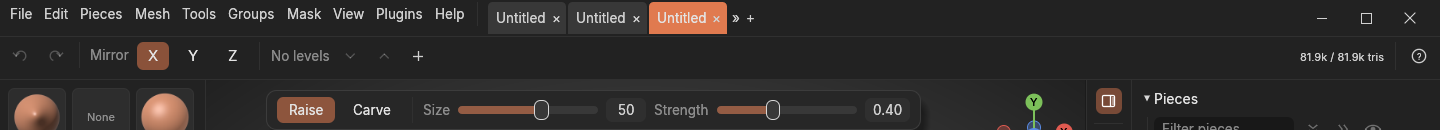
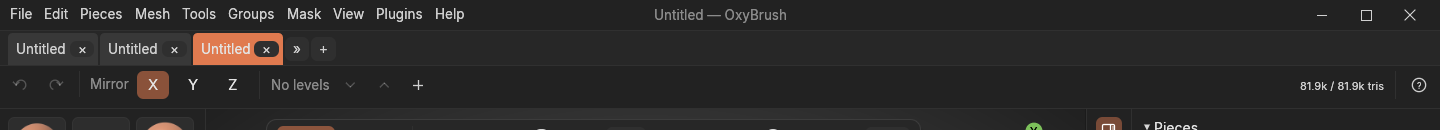
Keep the tabs in their own row under the title bar
The maintainer tried the tabs in the Windows and Linux bar and preferred
them in their own row. The bar goes back to the menus, the project name
(painted in the middle, so the bar under it still moves the window) and
the window buttons, with the tab row under it on every platform.

The RFC, changelog, roadmap and screenshot follow.

Claude-Session: https://claude.ai/code/session_01GEttLK8THCkZ7KHELbSp7g

diff --git a/crates/oxy-app/src/title_bar.rs b/crates/oxy-app/src/title_bar.rs
@@ -1,8 +1,8 @@
 //! OxyBrush's own title bar (RFC 0028): on Windows and Linux the window is
 //! made without the system's title bar, and the menu bar takes its place.
-//! It holds the menus, the tabs and the minimize, maximize and close
-//! buttons, moves the window when its empty part is dragged, and thin edges
-//! around the window resize it.
+//! It holds the menus, the project name and the minimize, maximize and
+//! close buttons, moves the window when its empty part is dragged, and thin
+//! edges around the window resize it. The tabs stay in their row under it.
 //!
 //! The UI only asks ([`WindowRequest`] in `Editor::window_request`); the
 //! app carries the request out on the window, because egui has no window
@@ -101,7 +101,7 @@ pub fn edge_at(screen: Rect, pos: Pos2) -> Option<Edge> {
     })
 }
 
-/// Empty bar kept free to move the window by, at the least (points).
+/// Empty bar kept free beside the title to move the window by (points).
 pub const MIN_DRAG: f32 = 48.0;
 
 /// Size of one window button for the layout.
@@ -109,15 +109,10 @@ fn button_size(ed: &Editor) -> egui::Vec2 {
     if ed.layout == crate::settings::UiLayout::Touch { vec2(52.0, 34.0) } else { vec2(44.0, 26.0) }
 }
 
-/// Width the three window buttons take (points).
-pub fn buttons_width(ed: &Editor) -> f32 {
-    3.0 * button_size(ed).x
-}
-
-/// The minimize, maximize and close buttons at the right end of the menu
-/// bar. Call last inside the menu bar; the space before them stays empty,
-/// so it moves the window.
-pub fn window_buttons(ui: &mut Ui, ed: &mut Editor) {
+/// The right side of the menu bar: the project title, centred on the
+/// window when there's room, over empty bar that moves the window, and the
+/// window buttons. Call last inside the menu bar.
+pub fn title_and_buttons(ui: &mut Ui, ed: &mut Editor, title: &str) {
     ui.with_layout(egui::Layout::right_to_left(egui::Align::Center), |ui| {
         ui.spacing_mut().item_spacing.x = 0.0;
         let size = button_size(ed);
@@ -129,6 +124,18 @@ pub fn window_buttons(ui: &mut Ui, ed: &mut Editor) {
                     Button::Minimize => WindowRequest::Minimize,
                 });
             }
+        }
+        // Painted, not a label, so the bar under it stays a drag area. Left
+        // out when it doesn't fit.
+        let space = ui.available_rect_before_wrap();
+        let font = egui::TextStyle::Body.resolve(ui.style());
+        let color = ui.visuals().weak_text_color();
+        let galley = ui.painter().layout_no_wrap(title.to_owned(), font, color);
+        let width = galley.size().x;
+        if width + MIN_DRAG < space.width() {
+            let centre = ui.ctx().content_rect().center().x;
+            let x = (centre - width / 2.0).clamp(space.left() + 12.0, space.right() - 12.0 - width);
+            ui.painter().galley(Pos2::new(x, space.center().y - galley.size().y / 2.0), galley, color);
         }
     });
 }

diff --git a/crates/oxy-app/src/ui.rs b/crates/oxy-app/src/ui.rs
@@ -870,13 +870,10 @@ pub fn draw(ui: &mut Ui, ed: &mut Editor) -> (Option<UiAction>, egui::Rect) {
             tips::menu(ui, "Plugins", plain::PLUGINS_MENU, |ui| crate::wasm_plugins::plugins_menu(ui, ed));
             tips::menu(ui, "Help", plain::HELP, |ui| help_menu(ui, ed));
             if own_bar {
-                // The tabs, then empty space that moves the window, then
-                // the window buttons (RFC 0028).
-                ui.separator();
-                let reserved = crate::title_bar::buttons_width(ed) + crate::title_bar::MIN_DRAG + 64.0;
-                let width = (ui.available_width() - reserved).max(80.0);
-                tab_strip(ui, ed, width);
-                crate::title_bar::window_buttons(ui, ed);
+                // The project name over empty bar that moves the window,
+                // then the window buttons (RFC 0028).
+                let title = ed.title();
+                crate::title_bar::title_and_buttons(ui, ed, &title);
             }
         });
         })
@@ -2415,10 +2412,6 @@ fn edit_linear_color(ui: &mut Ui, color: &mut [f64; 3]) -> egui::Response {
 
 /// Tab bar showing open project documents across the top of the viewport.
 fn tab_bar(ui: &mut Ui, ed: &mut Editor, _action: &mut Option<UiAction>) {
-    // With OxyBrush's own title bar the tabs are in it (RFC 0028).
-    if ed.own_title_bar {
-        return;
-    }
     let frame = egui::Frame::new().fill(ui.visuals().window_fill).inner_margin(egui::Margin {
         left: 8,
         right: 8,
@@ -8257,18 +8250,12 @@ mod tests {
         let file = widgets_labelled(&mut ed, &ctx, "File");
         assert_eq!(file.len(), 1, "{file:?}");
         let empty = egui::pos2(1000.0, file[0].center().y);
-        // The tabs are in the same bar, after the menus, and work there.
+        // The tabs stay in their own row under the bar.
         let plus = widgets_labelled(&mut ed, &ctx, "+");
         assert!(
-            plus.iter().any(|r| (r.center().y - file[0].center().y).abs() < 6.0 && r.left() > file[0].right()),
-            "the new-tab button is in the menu bar: {plus:?} vs {file:?}"
+            plus.iter().any(|r| r.top() >= file[0].bottom() && r.top() < file[0].bottom() + 40.0),
+            "the tab row is right under the bar: {plus:?} vs {file:?}"
         );
-        let plus = *plus.iter().find(|r| (r.center().y - file[0].center().y).abs() < 6.0).unwrap();
-        assert!(plus.right() < empty.x, "room to drag after the tabs");
-        let tabs = ed.documents.len();
-        click_with(&mut ed, &ctx, plus.center(), egui::Modifiers::NONE, 1);
-        assert_eq!(ed.documents.len(), tabs + 1, "+ in the bar opens a tab");
-        assert_eq!(ed.window_request.take(), None, "and doesn't move the window");
 
         // Dragging the empty bar moves the window; a menu takes its own click.
         frames_with(

diff --git a/docs/ROADMAP.md b/docs/ROADMAP.md
@@ -8,7 +8,7 @@
 >
 > 4.0.0-beta.21.4 adds editing and repositioning for placed recipes, linked mirror pairs, a new-tab material preference, and a Blender bridge extension ZIP. It also fixes rounded Grab-family pulls near the mirror plane and left-click controls in the Pieces list.
 >
-> **Last updated:** 2026-11-21 (unreleased: one bar for the menus, tabs and window buttons on Windows and Linux, with Use system title bar to switch back (RFC 0028 phase 1; macOS menu bar next); Blender bridge axis conversion and running-window handoff; Recipe Box library housekeeping and masked/even-scatter instances; quads and n-gons in OBJ and FBX files kept as polygons whatever their shape, so quad subdivision matches the file (`POLY` section); UVs survive subdivision, save/reopen and export; Blender bridge offsets shape keys with the mesh and updates previously returned pieces. v4.0.0-beta.21.4: Blender bridge extension ZIP (#396); grab-family brushes pull round shapes with symmetry on (no flat top on the mirror plane); new tabs start with the current tab's material, or one chosen in Preferences > General; Recipe Box phase 3: Move on surface, linked mirrored pairs, Unlink, Save back to Recipe Box / Save as new recipe (RFC 0026, `PART` version 2); the Parts Bin is renamed the Recipe Box, and its saved strokes recipes; Pieces list left clicks fixed (#391). v4.0.0-beta.21.2: fixed tab close button hit-testing, `+`/`Ctrl+T` new tab creation from untouched tabs, non-prompting File > New, pinned overflow/new-tab buttons, and pull-out Parts Bin drawer anchored to the brush shelf edge (#388). v4.0.0-beta.21: Tabbed Projects completed — RFC 0027 Phases 1–5 (#381–#383, #385): multi-document tab bar, shortcuts (`Ctrl+T`, `Ctrl+W`, `Ctrl+Tab`/`Ctrl+Shift+Tab`, `Ctrl+1..9`, `Ctrl+Shift+T`), drag reorder, overflow menu, multi-tab quit with Save all, per-tab Revert, multi-file CLI/drop, startup session restore preference, source-tracked multi-tab crash recovery UI, tab-aware recent files and agent `open`, cross-tab piece copy/paste (`Ctrl+C`/`Ctrl+V`) with living strokes, tab-latched WASM & Python plugins, bridge link tabs, and shared 4 GiB LRU undo cap; grab-family symmetry blending fix (#384) so overlapping mirror copies sum and softly cap at one drag without valleys or ridges near the plane; Parts Bin library, placement and `.oxydetail` details with `.oxb` `PART` section (RFC 0026 & RFC 0025 phases 4–5, #379); Living Strokes Edit path as a curve (RFC 0025 phase 3, #377); Pieces outliner Shift-range selection and batch parenting (#380); consolidated Theme controls into Preferences > Appearance (#376). v4.0.0-beta.20.2: inspector panel width bounding to 45% screen width (#374); Pieces outliner drag-and-drop reparenting and unparenting relative to siblings and roots; outliner vector icons for expand/collapse and fold chevrons; piece row right-click context menu and Parent to… submenu. v4.0.0-beta.20: Autodesk FBX import for modern 7.x, ASCII, and legacy 5.8/6.x (#367); Sculptor dark slate theme with concentric clay sliders and sculpted silver-clay icons (#368); Pieces outliner upgrade with folders, interactive parenting, search filter, and batch actions (#369); UI tint color hue, intensity, and brightness sliders with swatches (#371). v4.0.0-beta.19.2: 4K alpha import resolution and native 16-bit PNG depth preservation (#359); resizable narrow inspector panel with wrapping controls (#360); voxel remesh volume preservation (#354); Deform window title bar flick fix (#351). v4.0.0-beta.19: tree view outliner for pieces with hierarchy folding, drag-and-drop parenting, and transform propagation (#332); voxel remesh volume preservation (#354); partitioned GPU rendering with bounded draw batches for 200M–600M+ triangles; LZ4-compressed inactive undo history; multires zero-displacement detail compaction; VRAM culling for hidden pieces; GPU buffer clamping and wireframe safety limit; reorder pieces by drag-and-drop (#297); join picked pieces with Cmd+click (#297, #284); Alt-click eye icon isolates a piece (#297); Poly Edit gizmo axes alignment and custom pivot (#324); Invert alpha toggle for brush alphas (#339); Stamp stroke smoothed to 1 redraw per frame (#342); pick Export file type in File menu (#300, #344); Studio theme sentence-case headings (#343). v4.0.0-beta.18: Ctrl+click blurs the mask and Ctrl+Alt+click sharpens it; Hide masked; Alt before releasing a mask box or lasso masks outside it (#329); Sort brushes A–Z (#304); brush size and Floor grid work in an empty scene (#328). v4.0.0-beta.17: window resizing is smoother; Front faces only is off by default, movement brushes start at strength 0.5. Import takes several files at once, as pieces, in one undo step; a file that fails to read is skipped, and a batch fitted to the scene shares one scale factor (#311). RFC 0026 (accepted) specifies the Parts Bin, a library of saved details dragged from a strip onto a model as a stroke group that stays editable; RFC 0027 (draft) describes tabbed projects. Group by islands respects hidden faces, so visible parts joined only through hidden ones are separate islands (#280). File > Export type picks the file type Export proposes, since macOS save panels have no file type list (#300). in Poly Edit, clicking empty space clears the picked faces, edges or points, while dragging there only orbits (#301). Kelvin Grab keeps its elastic bulge and pinch on pulls of a radius or more again, still without the crease on long pulls; Crease and Sharp Crease no longer leave a ridge along the mirror plane. v4.0.0-beta.16: the hard-edge angle is adjustable in View > Shading (Hard edge angle, 40° by default; 180° keeps every edge smooth). Edit… on a living stroke changes its brush, Raise/Carve, size, strength, falloff, alpha or spacing and sculpts that stroke again (RFC 0025 phase 2); later strokes stay as stored, Esc cancels. Recipes (`STRI`) record what was drawn, including curve, stamp and line strokes and a captured alpha after save and open; dynamic detail, Curve Move and whole-piece tools are not editable. v4.0.0-beta.15: sharp or smooth corners point by point in tube profiles, D-shape with a flat bottom (`TPRC`); Merge down, and Ctrl/Cmd+click pieces to move, turn and scale them together with the gizmo (#274); Poly Edit soft selection and mode buttons in the brush shelf (#275); one transform gizmo for move, turn and scale (T); the gizmo in Poly Edit on picked faces, edges or points, Shift+drag to extrude or inset (#272). v4.0.0-beta.14: tube profiles, any cross-section drawn in the Tube window (`TUBP`); area lights with soft shadows, the matcap lit by the lights, and a soft falloff for every light (RFC 0024); hard edges on low-poly models in the viewport; tube sharp corners (`TUBC`), merge or delete tube points, orbit while editing a tube (#258); a hotkey for any brush from the shelf (#259); hide just the settings panel with Shift+Tab or the view strip (#260); Poly Edit element modes, Faces, Edges, Points and Auto, with picks for each and conversion between them (RFC 0023). v4.0.0-beta.13: transform gizmo follows Mirror X/Y/Z; Gravity 3.3 times stronger; Stamp stroke mode as strong as freehand and shown live; Kelvin Grab pulls long shapes without a crease; Poly Edit picks several faces (Ctrl/Cmd+click), centred and paired edge loops (#243); Poly Edit takes newly painted face groups (#249). v4.0.0-beta.12: Edge loop at mask border (support loops for hard edges); Paint Groups brush; Units preference (metric or imperial, size of a scene unit) and Measure in mm or inches (#234), plugin API 5; Poly Edit edges hidden behind the model, and n-gons drawn without their inner lines; Surface instances, first phase: copies of a piece on the faces, points or a face group of another, following the surface, Edit source, Make real, saved in `INST` (RFC 0022); View > Inactive pieces (grey out, darken, tint, off); quad and UV spheres in Insert Primitive; gizmo pivot kept after inserting when not following the mask; Booleans in the Pieces panel; interface consistency pass (3D print and diagnostics windows, sentence case, Touch quick bar), 3D print wall check made undoable; File > Revert (#218); per-brush Gravity; View > Shading > Show vertex color; Layers section in the right panel and a Tools menu. v4.0.0-beta.11: orbit around the cursor (default), the last stroke or the centre; Keep this level only, so dynamic detail works after subdividing; pen hover cursor on Windows and a round Clay Strips cursor fixed; Gaussian splats planned (RFC 0021); tubes with Twist, Spin (coil) and Braid (`TUBX`); compressed glTF/GLB export (quantized, KHR_mesh_quantization, or meshopt, EXT_meshopt_compression), glTF/GLB import (including meshopt and quantized files); UVs kept from OBJ and glTF through sculpting, saving and export (RFC 0020, first part), with UVs through subdivision levels next; Sharp Crease brush; sculpt layers made ahead of time (Living strokes "Sculpt into"). v4.0.0-beta.10: a material (matcap) per piece, saved in `MATL`; Living strokes for plugins (API 4) and agents (`list_strokes`, `edit_strokes`), finishing phase 2; Living strokes phase 3: Mirror copy, Split by side, stroke groups as glTF shape keys; voxel remesh keeps toes of posed or rigged models whole (inside-out skin folds and flipped normals). Next: UVs carried through import, levels and export (RFC 0020). v4.0.0-beta.9: Subdivide masked, more resolution only where masked; Smooth toggle for subdivision levels and Subdivide, off splits faces without changing the shape (`MRLN`); subdivision levels and Subdivide make quads by default (Catmull–Clark with Poly Edit creases, RFC 0019), with Triangles (Loop) as an option; UV support planned (RFC 0020); Living strokes phase 2, stroke groups as sculpt layers with strength and show/hide, Keep only where unmasked, strokes saved with the project (`STRK`); Disc primitive (ring, slice) made of quads; voxel remesh keeps close parts (fingers, toes) apart without pinched edges, Manifold Dual Contouring in both engines. Next: UVs carried through import, levels and export (RFC 0020). v4.0.0-beta.8: Poly Edit rounded bevels (rows and profile), Bridge and Split face follow Mirror; human base meshes (female and male, CC0 from Blender) under File > New; option to keep the gizmo pivot in place instead of following the mask; voxel remesh Shell option with thickness and side, and models with holes remesh solid instead of as a thin wall; Poly Edit phase C: creases, smooth subdivision with a live preview, Smooth and sculpt (RFC 0018); Living strokes phase 1, an option to keep strokes editable with a Strokes panel to fade, delete and solo them (RFC 0017); Poly Edit phase B: bevel, bridge, edge slide, spin, split face, equalize, and Repeat (Y) (RFC 0018); quad and UV spheres; voxel remesh of overlapping or self-crossing parts fixed (#174). Next: Living strokes phase 2 (groups, mask-out, saving). v4.0.0-beta.7: Poly Edit first steps, face, edge and point actions (extrude, inset, insert loop, close hole, weld…) with reach and mirror (RFC 0018); live transform gizmo fields with Apply/Cancel, Fill mask, Invert mask leaves hidden parts alone, background Deform preview on very large pieces; Ctrl+plus/minus zoom the view; Ctrl+W groups from the mask; gizmo bar shows the actual size and centre; brush size on the model; vertex colors imported from OBJ and PLY, and PLY import. v4.0.0-beta.6: undo on the active piece only; reopen the last stroke as a curve, Curve Move curve or tube path. v4.0.0-beta.5: Inter interface font and softer text; Deform window with 25 whole-piece deformers (RFC 0016); larger Mirror X/Y/Z buttons; Mask border and Mask group borders (#170). v4.0.0-beta.4: custom button and brush icon colors in the Theme window; Mesh > Symmetrize mirrors one half of a piece onto the other and welds the seam; Split masked moves the masked part into a new piece; Join combines pieces without remeshing, and Merge is labelled Merge + remesh; retopology Tab+drag pulls out a quad (it never reached the tool); bundled API 3 showcase plugins: Group by Angle, Hide Faces by Angle, Fill Holes, Simplify Mesh, Color by Group. v4.0.0-beta.3: one Theme window for themes, colors and size (RFC 0014), with a slider thickness option; pen gestures: drag panels to scroll, hold for menus, Pen side buttons preset (RFC 0015). v4.0.0-beta.2: drag the axis gizmo to orbit; opening a file closes the Home window; pin points in the retopology tool so relax leaves them; OxyBrush registers its `.oxb` document type with macOS at start. v4.0.0-beta.1: alpha capture up to 4096 px, alphas saved with the project, and Export alpha; File > New > Cube without open seams. v3.0.8-beta: File > Close project; OBJ files with broken materials import; imports in other units fitted to the scene; box masking follows symmetry; slimmer window title bars; Studio theme with solid slider handles, squarer corners and a lighter shadow. v3.0.7-beta: plugin API 3 (RFC 0013) with topology and face-group edits, live preview, richer panels, remembered settings, progress and Stop, plus a plugin guide and API reference; Studio theme; option to hide brush names; window size and position remembered; .oxb files open by double-click on macOS and by dropping on the window; Linux pen pressure; 18% less mesh memory. v3.0.6-beta: retopology Subdivide and project; vertex color in glTF, PLY and OBJ exports; edit a tube again after Accept; open Curve Move curves saved with the project; option to remember brush settings; dynamic detail makes even triangles and stays at the brush; interface scale slider and network-drive saving fixed. v3.0.5-beta: retopology tool, draw quads on a sculpt with X mirroring (RFC 0012); voxel remesh up to 17× faster with a triangle estimate; decimate 5× faster; color, mask and face groups kept through remesh, merge, booleans and decimate; ring-style rotate gizmo. v3.0.4-beta: transform gizmo operators (plane handles, snapping, typed values, pivot choices, mirror); Plugins menu, built-in in-app plugins, Remove. v3.0.3-beta: parametric low-poly primitives; Tube brush; .oxyaddon packages and plugin API 2; F frames the active piece; zoom direction options. v3.0.2-beta: Blender bridge (RFC 0010); in-app WebAssembly plugins (RFC 0011); Close holes; capture alpha from view. v3.0.1-beta: viewport lights and shadows (RFC 0008); floor grid button on the view strip; cylinder, cone and torus pieces; Split hidden; history newest first; focal shift and S/U/I/O pointer sliders; tube tool (RFC 0009). v3.0.0-beta: Curve stroke mode (RFC 0004); Curve Move brush (RFC 0005); Dynamic detail, first version (RFC 0006); plugin API read access (RFC 0007); per-piece symmetry centre (`SYMC` section) so off-centre models mirror; OxyCharacter round trip — open `.oxb` from the command line, "Linked to OxyCharacter" badge, Send back, sidecar kept on Save As, topology hint, `VMAP` section. v2.5.7-beta: mask extract with live preview and Accept, floor grid that follows the model, Pen & tablet pressure settings, macOS Quit asks to save. v2.5.6-beta: Midnight theme and Pill corner style, docs refresh. v2.5.5-beta: insert preview, visible cut line and symmetric cuts, gizmo pivot fix, Windows Ink pen side button, generic names for branded options, Matte theme contrast, menus that fit on screen)
+> **Last updated:** 2026-11-21 (unreleased: one bar for the menus, project name and window buttons on Windows and Linux, tabs under it, with Use system title bar to switch back (RFC 0028 phase 1; macOS menu bar next); Blender bridge axis conversion and running-window handoff; Recipe Box library housekeeping and masked/even-scatter instances; quads and n-gons in OBJ and FBX files kept as polygons whatever their shape, so quad subdivision matches the file (`POLY` section); UVs survive subdivision, save/reopen and export; Blender bridge offsets shape keys with the mesh and updates previously returned pieces. v4.0.0-beta.21.4: Blender bridge extension ZIP (#396); grab-family brushes pull round shapes with symmetry on (no flat top on the mirror plane); new tabs start with the current tab's material, or one chosen in Preferences > General; Recipe Box phase 3: Move on surface, linked mirrored pairs, Unlink, Save back to Recipe Box / Save as new recipe (RFC 0026, `PART` version 2); the Parts Bin is renamed the Recipe Box, and its saved strokes recipes; Pieces list left clicks fixed (#391). v4.0.0-beta.21.2: fixed tab close button hit-testing, `+`/`Ctrl+T` new tab creation from untouched tabs, non-prompting File > New, pinned overflow/new-tab buttons, and pull-out Parts Bin drawer anchored to the brush shelf edge (#388). v4.0.0-beta.21: Tabbed Projects completed — RFC 0027 Phases 1–5 (#381–#383, #385): multi-document tab bar, shortcuts (`Ctrl+T`, `Ctrl+W`, `Ctrl+Tab`/`Ctrl+Shift+Tab`, `Ctrl+1..9`, `Ctrl+Shift+T`), drag reorder, overflow menu, multi-tab quit with Save all, per-tab Revert, multi-file CLI/drop, startup session restore preference, source-tracked multi-tab crash recovery UI, tab-aware recent files and agent `open`, cross-tab piece copy/paste (`Ctrl+C`/`Ctrl+V`) with living strokes, tab-latched WASM & Python plugins, bridge link tabs, and shared 4 GiB LRU undo cap; grab-family symmetry blending fix (#384) so overlapping mirror copies sum and softly cap at one drag without valleys or ridges near the plane; Parts Bin library, placement and `.oxydetail` details with `.oxb` `PART` section (RFC 0026 & RFC 0025 phases 4–5, #379); Living Strokes Edit path as a curve (RFC 0025 phase 3, #377); Pieces outliner Shift-range selection and batch parenting (#380); consolidated Theme controls into Preferences > Appearance (#376). v4.0.0-beta.20.2: inspector panel width bounding to 45% screen width (#374); Pieces outliner drag-and-drop reparenting and unparenting relative to siblings and roots; outliner vector icons for expand/collapse and fold chevrons; piece row right-click context menu and Parent to… submenu. v4.0.0-beta.20: Autodesk FBX import for modern 7.x, ASCII, and legacy 5.8/6.x (#367); Sculptor dark slate theme with concentric clay sliders and sculpted silver-clay icons (#368); Pieces outliner upgrade with folders, interactive parenting, search filter, and batch actions (#369); UI tint color hue, intensity, and brightness sliders with swatches (#371). v4.0.0-beta.19.2: 4K alpha import resolution and native 16-bit PNG depth preservation (#359); resizable narrow inspector panel with wrapping controls (#360); voxel remesh volume preservation (#354); Deform window title bar flick fix (#351). v4.0.0-beta.19: tree view outliner for pieces with hierarchy folding, drag-and-drop parenting, and transform propagation (#332); voxel remesh volume preservation (#354); partitioned GPU rendering with bounded draw batches for 200M–600M+ triangles; LZ4-compressed inactive undo history; multires zero-displacement detail compaction; VRAM culling for hidden pieces; GPU buffer clamping and wireframe safety limit; reorder pieces by drag-and-drop (#297); join picked pieces with Cmd+click (#297, #284); Alt-click eye icon isolates a piece (#297); Poly Edit gizmo axes alignment and custom pivot (#324); Invert alpha toggle for brush alphas (#339); Stamp stroke smoothed to 1 redraw per frame (#342); pick Export file type in File menu (#300, #344); Studio theme sentence-case headings (#343). v4.0.0-beta.18: Ctrl+click blurs the mask and Ctrl+Alt+click sharpens it; Hide masked; Alt before releasing a mask box or lasso masks outside it (#329); Sort brushes A–Z (#304); brush size and Floor grid work in an empty scene (#328). v4.0.0-beta.17: window resizing is smoother; Front faces only is off by default, movement brushes start at strength 0.5. Import takes several files at once, as pieces, in one undo step; a file that fails to read is skipped, and a batch fitted to the scene shares one scale factor (#311). RFC 0026 (accepted) specifies the Parts Bin, a library of saved details dragged from a strip onto a model as a stroke group that stays editable; RFC 0027 (draft) describes tabbed projects. Group by islands respects hidden faces, so visible parts joined only through hidden ones are separate islands (#280). File > Export type picks the file type Export proposes, since macOS save panels have no file type list (#300). in Poly Edit, clicking empty space clears the picked faces, edges or points, while dragging there only orbits (#301). Kelvin Grab keeps its elastic bulge and pinch on pulls of a radius or more again, still without the crease on long pulls; Crease and Sharp Crease no longer leave a ridge along the mirror plane. v4.0.0-beta.16: the hard-edge angle is adjustable in View > Shading (Hard edge angle, 40° by default; 180° keeps every edge smooth). Edit… on a living stroke changes its brush, Raise/Carve, size, strength, falloff, alpha or spacing and sculpts that stroke again (RFC 0025 phase 2); later strokes stay as stored, Esc cancels. Recipes (`STRI`) record what was drawn, including curve, stamp and line strokes and a captured alpha after save and open; dynamic detail, Curve Move and whole-piece tools are not editable. v4.0.0-beta.15: sharp or smooth corners point by point in tube profiles, D-shape with a flat bottom (`TPRC`); Merge down, and Ctrl/Cmd+click pieces to move, turn and scale them together with the gizmo (#274); Poly Edit soft selection and mode buttons in the brush shelf (#275); one transform gizmo for move, turn and scale (T); the gizmo in Poly Edit on picked faces, edges or points, Shift+drag to extrude or inset (#272). v4.0.0-beta.14: tube profiles, any cross-section drawn in the Tube window (`TUBP`); area lights with soft shadows, the matcap lit by the lights, and a soft falloff for every light (RFC 0024); hard edges on low-poly models in the viewport; tube sharp corners (`TUBC`), merge or delete tube points, orbit while editing a tube (#258); a hotkey for any brush from the shelf (#259); hide just the settings panel with Shift+Tab or the view strip (#260); Poly Edit element modes, Faces, Edges, Points and Auto, with picks for each and conversion between them (RFC 0023). v4.0.0-beta.13: transform gizmo follows Mirror X/Y/Z; Gravity 3.3 times stronger; Stamp stroke mode as strong as freehand and shown live; Kelvin Grab pulls long shapes without a crease; Poly Edit picks several faces (Ctrl/Cmd+click), centred and paired edge loops (#243); Poly Edit takes newly painted face groups (#249). v4.0.0-beta.12: Edge loop at mask border (support loops for hard edges); Paint Groups brush; Units preference (metric or imperial, size of a scene unit) and Measure in mm or inches (#234), plugin API 5; Poly Edit edges hidden behind the model, and n-gons drawn without their inner lines; Surface instances, first phase: copies of a piece on the faces, points or a face group of another, following the surface, Edit source, Make real, saved in `INST` (RFC 0022); View > Inactive pieces (grey out, darken, tint, off); quad and UV spheres in Insert Primitive; gizmo pivot kept after inserting when not following the mask; Booleans in the Pieces panel; interface consistency pass (3D print and diagnostics windows, sentence case, Touch quick bar), 3D print wall check made undoable; File > Revert (#218); per-brush Gravity; View > Shading > Show vertex color; Layers section in the right panel and a Tools menu. v4.0.0-beta.11: orbit around the cursor (default), the last stroke or the centre; Keep this level only, so dynamic detail works after subdividing; pen hover cursor on Windows and a round Clay Strips cursor fixed; Gaussian splats planned (RFC 0021); tubes with Twist, Spin (coil) and Braid (`TUBX`); compressed glTF/GLB export (quantized, KHR_mesh_quantization, or meshopt, EXT_meshopt_compression), glTF/GLB import (including meshopt and quantized files); UVs kept from OBJ and glTF through sculpting, saving and export (RFC 0020, first part), with UVs through subdivision levels next; Sharp Crease brush; sculpt layers made ahead of time (Living strokes "Sculpt into"). v4.0.0-beta.10: a material (matcap) per piece, saved in `MATL`; Living strokes for plugins (API 4) and agents (`list_strokes`, `edit_strokes`), finishing phase 2; Living strokes phase 3: Mirror copy, Split by side, stroke groups as glTF shape keys; voxel remesh keeps toes of posed or rigged models whole (inside-out skin folds and flipped normals). Next: UVs carried through import, levels and export (RFC 0020). v4.0.0-beta.9: Subdivide masked, more resolution only where masked; Smooth toggle for subdivision levels and Subdivide, off splits faces without changing the shape (`MRLN`); subdivision levels and Subdivide make quads by default (Catmull–Clark with Poly Edit creases, RFC 0019), with Triangles (Loop) as an option; UV support planned (RFC 0020); Living strokes phase 2, stroke groups as sculpt layers with strength and show/hide, Keep only where unmasked, strokes saved with the project (`STRK`); Disc primitive (ring, slice) made of quads; voxel remesh keeps close parts (fingers, toes) apart without pinched edges, Manifold Dual Contouring in both engines. Next: UVs carried through import, levels and export (RFC 0020). v4.0.0-beta.8: Poly Edit rounded bevels (rows and profile), Bridge and Split face follow Mirror; human base meshes (female and male, CC0 from Blender) under File > New; option to keep the gizmo pivot in place instead of following the mask; voxel remesh Shell option with thickness and side, and models with holes remesh solid instead of as a thin wall; Poly Edit phase C: creases, smooth subdivision with a live preview, Smooth and sculpt (RFC 0018); Living strokes phase 1, an option to keep strokes editable with a Strokes panel to fade, delete and solo them (RFC 0017); Poly Edit phase B: bevel, bridge, edge slide, spin, split face, equalize, and Repeat (Y) (RFC 0018); quad and UV spheres; voxel remesh of overlapping or self-crossing parts fixed (#174). Next: Living strokes phase 2 (groups, mask-out, saving). v4.0.0-beta.7: Poly Edit first steps, face, edge and point actions (extrude, inset, insert loop, close hole, weld…) with reach and mirror (RFC 0018); live transform gizmo fields with Apply/Cancel, Fill mask, Invert mask leaves hidden parts alone, background Deform preview on very large pieces; Ctrl+plus/minus zoom the view; Ctrl+W groups from the mask; gizmo bar shows the actual size and centre; brush size on the model; vertex colors imported from OBJ and PLY, and PLY import. v4.0.0-beta.6: undo on the active piece only; reopen the last stroke as a curve, Curve Move curve or tube path. v4.0.0-beta.5: Inter interface font and softer text; Deform window with 25 whole-piece deformers (RFC 0016); larger Mirror X/Y/Z buttons; Mask border and Mask group borders (#170). v4.0.0-beta.4: custom button and brush icon colors in the Theme window; Mesh > Symmetrize mirrors one half of a piece onto the other and welds the seam; Split masked moves the masked part into a new piece; Join combines pieces without remeshing, and Merge is labelled Merge + remesh; retopology Tab+drag pulls out a quad (it never reached the tool); bundled API 3 showcase plugins: Group by Angle, Hide Faces by Angle, Fill Holes, Simplify Mesh, Color by Group. v4.0.0-beta.3: one Theme window for themes, colors and size (RFC 0014), with a slider thickness option; pen gestures: drag panels to scroll, hold for menus, Pen side buttons preset (RFC 0015). v4.0.0-beta.2: drag the axis gizmo to orbit; opening a file closes the Home window; pin points in the retopology tool so relax leaves them; OxyBrush registers its `.oxb` document type with macOS at start. v4.0.0-beta.1: alpha capture up to 4096 px, alphas saved with the project, and Export alpha; File > New > Cube without open seams. v3.0.8-beta: File > Close project; OBJ files with broken materials import; imports in other units fitted to the scene; box masking follows symmetry; slimmer window title bars; Studio theme with solid slider handles, squarer corners and a lighter shadow. v3.0.7-beta: plugin API 3 (RFC 0013) with topology and face-group edits, live preview, richer panels, remembered settings, progress and Stop, plus a plugin guide and API reference; Studio theme; option to hide brush names; window size and position remembered; .oxb files open by double-click on macOS and by dropping on the window; Linux pen pressure; 18% less mesh memory. v3.0.6-beta: retopology Subdivide and project; vertex color in glTF, PLY and OBJ exports; edit a tube again after Accept; open Curve Move curves saved with the project; option to remember brush settings; dynamic detail makes even triangles and stays at the brush; interface scale slider and network-drive saving fixed. v3.0.5-beta: retopology tool, draw quads on a sculpt with X mirroring (RFC 0012); voxel remesh up to 17× faster with a triangle estimate; decimate 5× faster; color, mask and face groups kept through remesh, merge, booleans and decimate; ring-style rotate gizmo. v3.0.4-beta: transform gizmo operators (plane handles, snapping, typed values, pivot choices, mirror); Plugins menu, built-in in-app plugins, Remove. v3.0.3-beta: parametric low-poly primitives; Tube brush; .oxyaddon packages and plugin API 2; F frames the active piece; zoom direction options. v3.0.2-beta: Blender bridge (RFC 0010); in-app WebAssembly plugins (RFC 0011); Close holes; capture alpha from view. v3.0.1-beta: viewport lights and shadows (RFC 0008); floor grid button on the view strip; cylinder, cone and torus pieces; Split hidden; history newest first; focal shift and S/U/I/O pointer sliders; tube tool (RFC 0009). v3.0.0-beta: Curve stroke mode (RFC 0004); Curve Move brush (RFC 0005); Dynamic detail, first version (RFC 0006); plugin API read access (RFC 0007); per-piece symmetry centre (`SYMC` section) so off-centre models mirror; OxyCharacter round trip — open `.oxb` from the command line, "Linked to OxyCharacter" badge, Send back, sidecar kept on Save As, topology hint, `VMAP` section. v2.5.7-beta: mask extract with live preview and Accept, floor grid that follows the model, Pen & tablet pressure settings, macOS Quit asks to save. v2.5.6-beta: Midnight theme and Pill corner style, docs refresh. v2.5.5-beta: insert preview, visible cut line and symmetric cuts, gizmo pivot fix, Windows Ink pen side button, generic names for branded options, Matte theme contrast, menus that fit on screen)
 
 
 ## Status at a glance

diff --git a/docs/rfcs/0028-unified-title-bar.md b/docs/rfcs/0028-unified-title-bar.md
@@ -6,10 +6,10 @@ Status: Accepted — phase 1 (Windows and Linux) implemented; phase 2 (macOS men
 
 Make the top of the window one bar.
 
-- **Windows and Linux:** the menus, the tabs and the window buttons share
-  one bar drawn by OxyBrush, in place of the system title bar, the menu row
-  and the tab row. The window moves, resizes, snaps and maximizes as
-  before.
+- **Windows and Linux:** the menus, the project name and the window
+  buttons share one bar drawn by OxyBrush, in place of the system title
+  bar and the menu row. The tabs stay in their row under it. The window
+  moves, resizes, snaps and maximizes as before.
 - **macOS:** the menus move to the macOS menu bar at the top of the screen,
   as in other Mac apps. The window keeps its system title bar, and the tabs
   sit right under it.
@@ -17,18 +17,19 @@ Make the top of the window one bar.
 **Use system title bar** in Preferences brings back the current layout on
 Windows and Linux.
 
-![Phase 1 on Linux: menus, tabs and window buttons in one bar](../images/unified-title-bar.png)
+![Phase 1 on Linux: menus, project name and window buttons in one bar, the tabs under it](../images/unified-title-bar.png)
 
 ## Why
 
 Today the window has the system title bar (with only the project name in
 it), then a row of menus, then the tab row. That's three bars before the
 tools. With tabbed projects ([RFC 0027](0027-tabbed-projects.md)) the menus
-and tabs belong to the window as a whole. Merging them:
+and tabs belong to the window as a whole. Merging the title bar and the
+menus:
 
-- gives the model the height of two bars back;
-- makes the tabs look like part of the window rather than a panel inside
-  it, as in browsers and code editors;
+- gives the model the height of a bar back;
+- makes the menus and tabs look like part of the window rather than
+  panels inside it;
 - on Linux, replaces the stand-in title bar the window library draws under
   Wayland (GNOME), which doesn't match the system or OxyBrush;
 - on macOS, puts the menus where Mac users look for them.
@@ -38,20 +39,20 @@ and tabs belong to the window as a whole. Merging them:
 ### Windows and Linux
 
 ```text
-File Edit Pieces … Help │ [• dragon ×][Untitled ×] » +            —  ☐  ✕
+File Edit Pieces … Help        dragon.oxb — OxyBrush         —  ☐  ✕
+[• dragon ×][Untitled ×] » +
 ↶ ↷  Mirror X Y Z  No levels …
 ```
 
 - **Menus** on the left, as today.
-- **Tabs** after them, working as in the tab row: click to switch, drag to
-  reorder, middle-click or × to close, » lists them all, + opens a new one.
-  With many tabs they scroll sideways, always leaving some empty bar.
-- **Empty bar** after the tabs: drag it to move the window.
+- **Project name** in the middle, dimmed, as the system title bar shows it
+  now. It's left out when the window is too narrow, and stays the window's
+  title for the taskbar, Alt+Tab and window lists.
+- **Empty bar** around the name: drag it to move the window.
 - **Minimize, maximize (or restore) and close** on the right, drawn by
   OxyBrush in the theme's colors. Close turns red on hover, as on Windows,
   and asks about unsaved tabs, as the system button does.
-- The project name isn't repeated in the bar: the active tab shows it. The
-  window keeps it as its title for the taskbar, Alt+Tab and window lists.
+- **Tabs** in their own row under the bar, unchanged.
 
 ### macOS
 
@@ -95,10 +96,11 @@ The window library (winit 0.30) has what's needed:
 | macOS | unchanged | native | native |
 
 - **Hit areas:** the menu bar has a background area that responds to
-  presses and double-clicks, registered under the menus and tabs (as the
-  Pieces rows do since #391), so a click on a menu or a tab still goes to
-  it. A drag on the background calls `drag_window`. Menus, tabs and
-  buttons are never drag areas.
+  presses and double-clicks, registered under the menus (as the
+  Pieces rows do since #391), so a click on a menu still goes to it. A
+  drag on the background calls `drag_window`. The title is painted, not a
+  widget, so the bar under it is a drag area too. Menus and buttons never
+  are.
 - **Edges:** invisible areas 5 points wide along the window border, above
   everything else, show the resize cursor and start `drag_resize_window`
   in that direction. Presses there never reach the model, so they never
@@ -118,7 +120,8 @@ The window library (winit 0.30) has what's needed:
 ## Testing
 
 - Editor tests drive the real interface: dragging the empty bar asks for
-  a window move, a click on a menu or on + doesn't; a double-click
+  a window move, a click on a menu doesn't; the tab row is under the bar;
+  a double-click
   maximizes; each window button asks for its action; a press on an edge or
   corner resizes, but not while maximized; with the system title bar the
   bar is only menus. The preference is saved and read back.
@@ -132,8 +135,9 @@ The window library (winit 0.30) has what's needed:
 
 ## Phases
 
-1. **Windows and Linux:** the one bar with menus, tabs and window buttons,
-   move, double-click, resize edges, the preference.
+1. **Windows and Linux:** the one bar with menus, project name and window
+   buttons over the tab row, move, double-click, resize edges, the
+   preference.
 2. **macOS:** the menus in the macOS menu bar, from shared menu
    definitions; the tab row first in the window.
 
@@ -142,17 +146,18 @@ The window library (winit 0.30) has what's needed:
 - **Windows 11 Snap Layouts** on hover over the maximize button. That
   flyout only appears for a system-drawn button, which winit can't
   provide. Win+arrow keys and dragging to an edge still snap.
-- **Tabs in the macOS title bar** next to the window buttons. The tabs go
-  right under the title bar, as the maintainer chose.
+- **Tabs in the title bar** on any platform. The maintainer tried them in
+  the Windows and Linux bar and chose to keep them in their own row.
 
 ## Decisions
 
 The maintainer chose these on 2026-11-21:
 
-- Windows and Linux use one bar for the menus, tabs and window buttons.
+- Windows and Linux use one bar for the menus, the project name and the
+  window buttons, with the tabs in their own row under it (tabs in the bar
+  were tried and turned down).
 - macOS uses the macOS menu bar and keeps the system title bar, with the
   tabs under it.
 - Linux always starts with OxyBrush's bar; **Use system title bar** turns
   it off, rather than guessing which window managers want it.
-- The project name stays the window title (taskbar, window lists); in the
-  bar, the active tab shows it.
+- The project name stays in the middle of the bar, and the window title.

diff --git a/CHANGELOG.md b/CHANGELOG.md
@@ -6,7 +6,7 @@ All notable changes to OxyBrush. The format is based on [Keep a Changelog](https
 
 ### Added
 
-- **One bar at the top of the window on Windows and Linux** ([RFC 0028](docs/rfcs/0028-unified-title-bar.md)). The menus, the tabs and the minimize, maximize and close buttons now share one bar in place of the system title bar, the menu row and the tab row, so the model gets more room. Drag the empty part of the bar to move the window (including snapping to screen edges), double-click it to maximize, right-click it for the window menu where the system has one, and resize from the window's edges and corners. **Preferences > General > Use system title bar** brings back the old layout at the next start. macOS is unchanged for now; its menus move to the macOS menu bar in a later step.
+- **One bar at the top of the window on Windows and Linux** ([RFC 0028](docs/rfcs/0028-unified-title-bar.md)). The menus, the project name and the minimize, maximize and close buttons now share one bar in place of the system title bar and the menu row, so the model gets more room; the tabs stay in their row under it. Drag the empty part of the bar to move the window (including snapping to screen edges), double-click it to maximize, right-click it for the window menu where the system has one, and resize from the window's edges and corners. **Preferences > General > Use system title bar** brings back the old layout at the next start. macOS is unchanged for now; its menus move to the macOS menu bar in a later step.
 - **Organize the Recipe Box.** Click a slot to rename the recipe, change its category, or move it earlier or later. Click a category variation to place it or drag it to reorder. Deleting a recipe leaves copies already placed on models editable.
 - **More ways to place surface instances.** **Masked surface** places live copies on visible faces that meet the mask threshold. **Even scatter** spaces seeded copies across the visible surface in a background job. Both modes save with the project.
 
